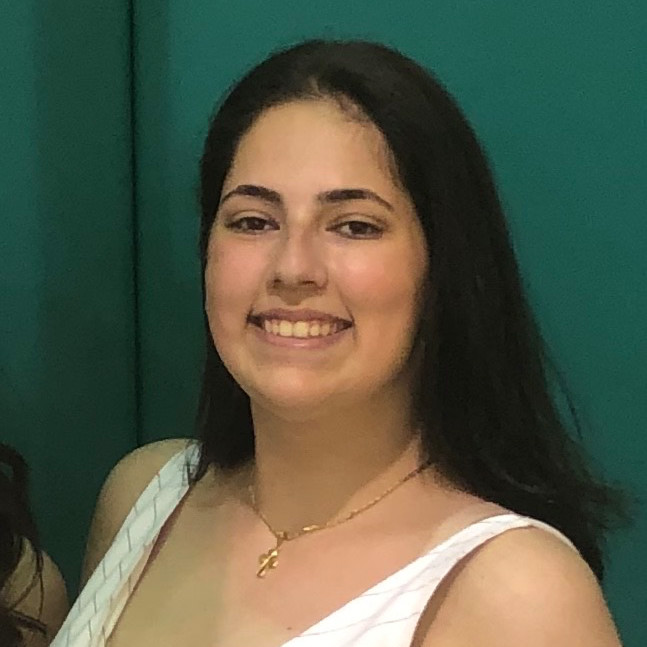
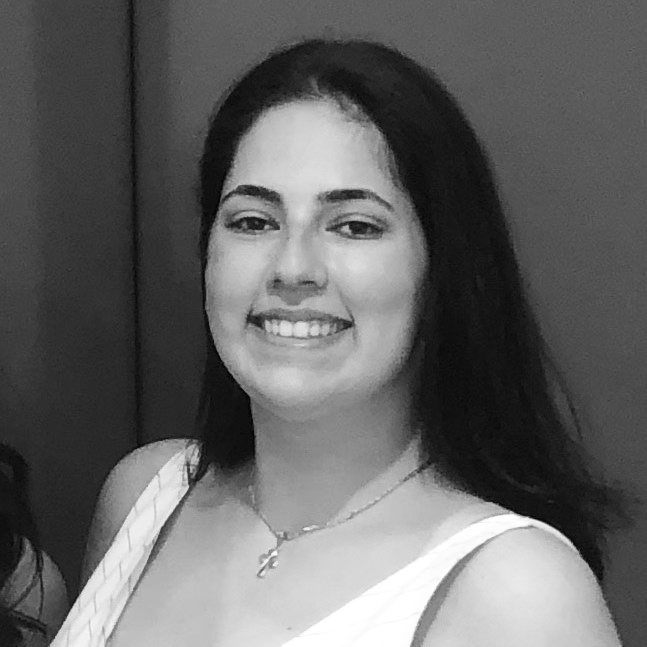
bw photos to make it consistent

diff --git a/home2/index.html b/home2/index.html
@@ -324,20 +324,20 @@
     		<div class="row justify-content-center pb-5">
           <div class="col-md-6 heading-section text-center ftco-animate">
           	<span class="subheading">About Us</span>
-            <h2 class="mb-4">Our Staff</h2>
-            <p>Far far away, behind the word mountains, far from the countries Vokalia and Consonantia</p>
+            <h2 class="mb-5">The Chefs in the Kitchen</h2>
+            <p>Cooking Up the Deals</p>
           </div>
         </div>
         <div class="row">
 					<div class="col-md-6 col-lg-3 ftco-animate">
 						<div class="staff">
 							<div class="img-wrap d-flex align-items-stretch">
-								<div class="img align-self-stretch" style="background-image: url(images/staff-1.jpg);"></div>
+								<div class="img align-self-stretch" style="background-image: url(https://github.com/Dealish/Dealish.github.io/blob/master/Photo%20Assets/Team%20Photos/joey_sq.jpg?raw=true);"></div>
 							</div>
 							<div class="text d-flex align-items-center pt-3 text-center">
 								<div>
-									<h3 class="mb-2">Lloyd Wilson</h3>
-									<span class="position mb-4">CEO, Founder</span>
+									<h3 class="mb-2">Joey Abonasara</h3>
+									<span class="position mb-4">Market Director, Founder</span>
 									<div class="faded">
 										<ul class="ftco-social text-center">
 			                <li class="ftco-animate"><a href="#"><span class="icon-twitter"></span></a></li>
@@ -353,11 +353,11 @@
 					<div class="col-md-6 col-lg-3 ftco-animate">
 						<div class="staff">
 							<div class="img-wrap d-flex align-items-stretch">
-								<div class="img align-self-stretch" style="background-image: url(images/staff-2.jpg);"></div>
+								<div class="img align-self-stretch" style="background-image: url(https://github.com/Dealish/Dealish.github.io/blob/master/Photo%20Assets/Team%20Photos/billy_sq.jpg?raw=true);"></div>
 							</div>
 							<div class="text d-flex align-items-center pt-3 text-center">
 								<div>
-									<h3 class="mb-2">Rachel Parker</h3>
+									<h3 class="mb-2">Billy Bolton</h3>
 									<span class="position mb-4">Web Designer</span>
 									<div class="faded">
 										<ul class="ftco-social text-center">
@@ -392,6 +392,27 @@
 							</div>
 						</div>
 					</div>
+          <div class="col-md-6 col-lg-3 ftco-animate">
+            <div class="staff">
+              <div class="img-wrap d-flex align-items-stretch">
+                <div class="img align-self-stretch" style="background-image: url(images/staff-3.jpg);"></div>
+              </div>
+              <div class="text d-flex align-items-center pt-3 text-center">
+                <div>
+                  <h3 class="mb-2">Ian Smith</h3>
+                  <span class="position mb-4">Web Developer</span>
+                  <div class="faded">
+                    <ul class="ftco-social text-center">
+                      <li class="ftco-animate"><a href="#"><span class="icon-twitter"></span></a></li>
+                      <li class="ftco-animate"><a href="#"><span class="icon-facebook"></span></a></li>
+                      <li class="ftco-animate"><a href="#"><span class="icon-google-plus"></span></a></li>
+                      <li class="ftco-animate"><a href="#"><span class="icon-instagram"></span></a></li>
+                    </ul>
+                  </div>
+                </div>
+              </div>
+            </div>
+          </div>
 					<div class="col-md-6 col-lg-3 ftco-animate">
 						<div class="staff">
 							<div class="img-wrap d-flex align-items-stretch">
@@ -715,9 +736,9 @@
             	<h2 class="ftco-heading-2">Have a Questions?</h2>
             	<div class="block-23 mb-3">
 	              <ul>
-	                <li><span class="icon icon-map-marker"></span><span class="text">203 Fake St. Mountain View, San Francisco, California, USA</span></li>
-	                <li><a href="#"><span class="icon icon-phone"></span><span class="text">+2 392 3929 210</span></a></li>
-	                <li><a href="#"><span class="icon icon-envelope"></span><span class="text">info@yourdomain.com</span></a></li>
+	                <li><span class="icon icon-map-marker"></span><span class="text">304 Dealishous Lane, Ottawa, Ontario, Canada</span></li>
+	                <li><a href="#"><span class="icon icon-phone"></span><span class="text">+1 613 282 1652</span></a></li>
+	                <li><a href="#"><span class="icon icon-envelope"></span><span class="text">info@Dealish.com</span></a></li>
 	              </ul>
 	            </div>
             </div>
@@ -727,7 +748,7 @@
           <div class="col-md-12 text-center">
 
             <p><!-- Link back to Colorlib can't be removed. Template is licensed under CC BY 3.0. -->
-  Copyright &copy;<script>document.write(new Date().getFullYear());</script> All rights reserved | This template is made with <i class="icon-heart color-danger" aria-hidden="true"></i> by <a href="https://colorlib.com" target="_blank">Colorlib</a>
+  <!--Copyright &copy;<script>document.write(new Date().getFullYear());</script> All rights reserved | This template is made with <i class="icon-heart color-danger" aria-hidden="true"></i> by <a href="https://colorlib.com" target="_blank">Colorlib</a> --!>
   <!-- Link back to Colorlib can't be removed. Template is licensed under CC BY 3.0. --></p>
           </div>
         </div>
@@ -752,7 +773,6 @@
   <script src="js/aos.js"></script>
   <script src="js/jquery.animateNumber.min.js"></script>
   <script src="js/scrollax.min.js"></script>
-  <script src="https://maps.googleapis.com/maps/api/js?key=AIzaSyBVWaKrjvy3MaE7SQ74_uJiULgl1JY0H2s&sensor=false"></script>
   <script src="js/google-map.js"></script>
 
   <script src="js/main.js"></script>
